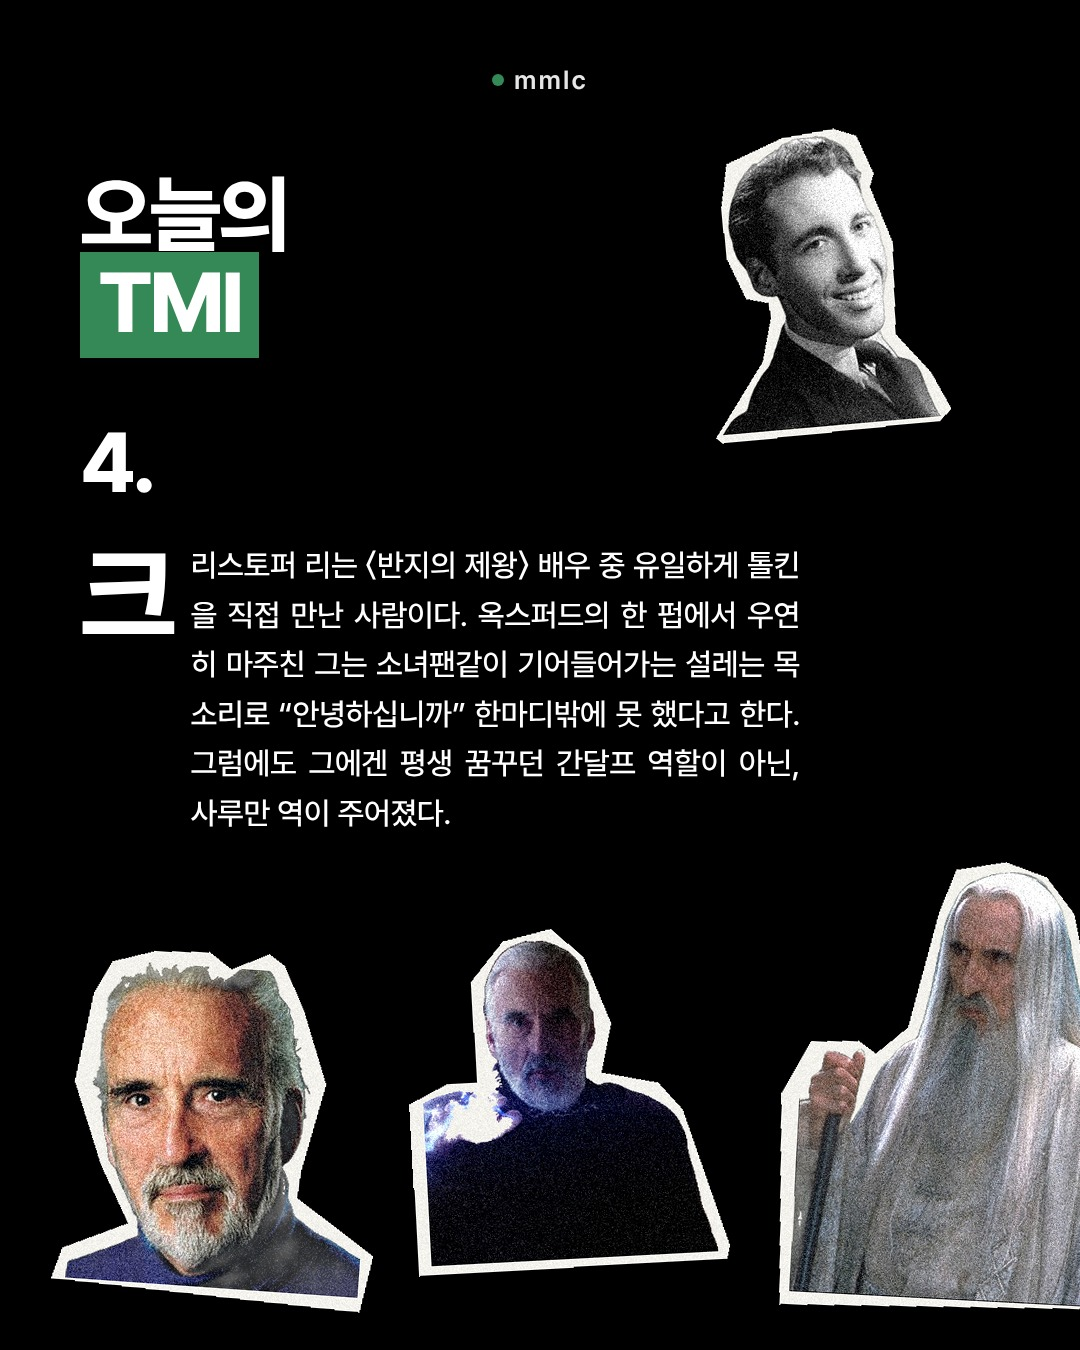
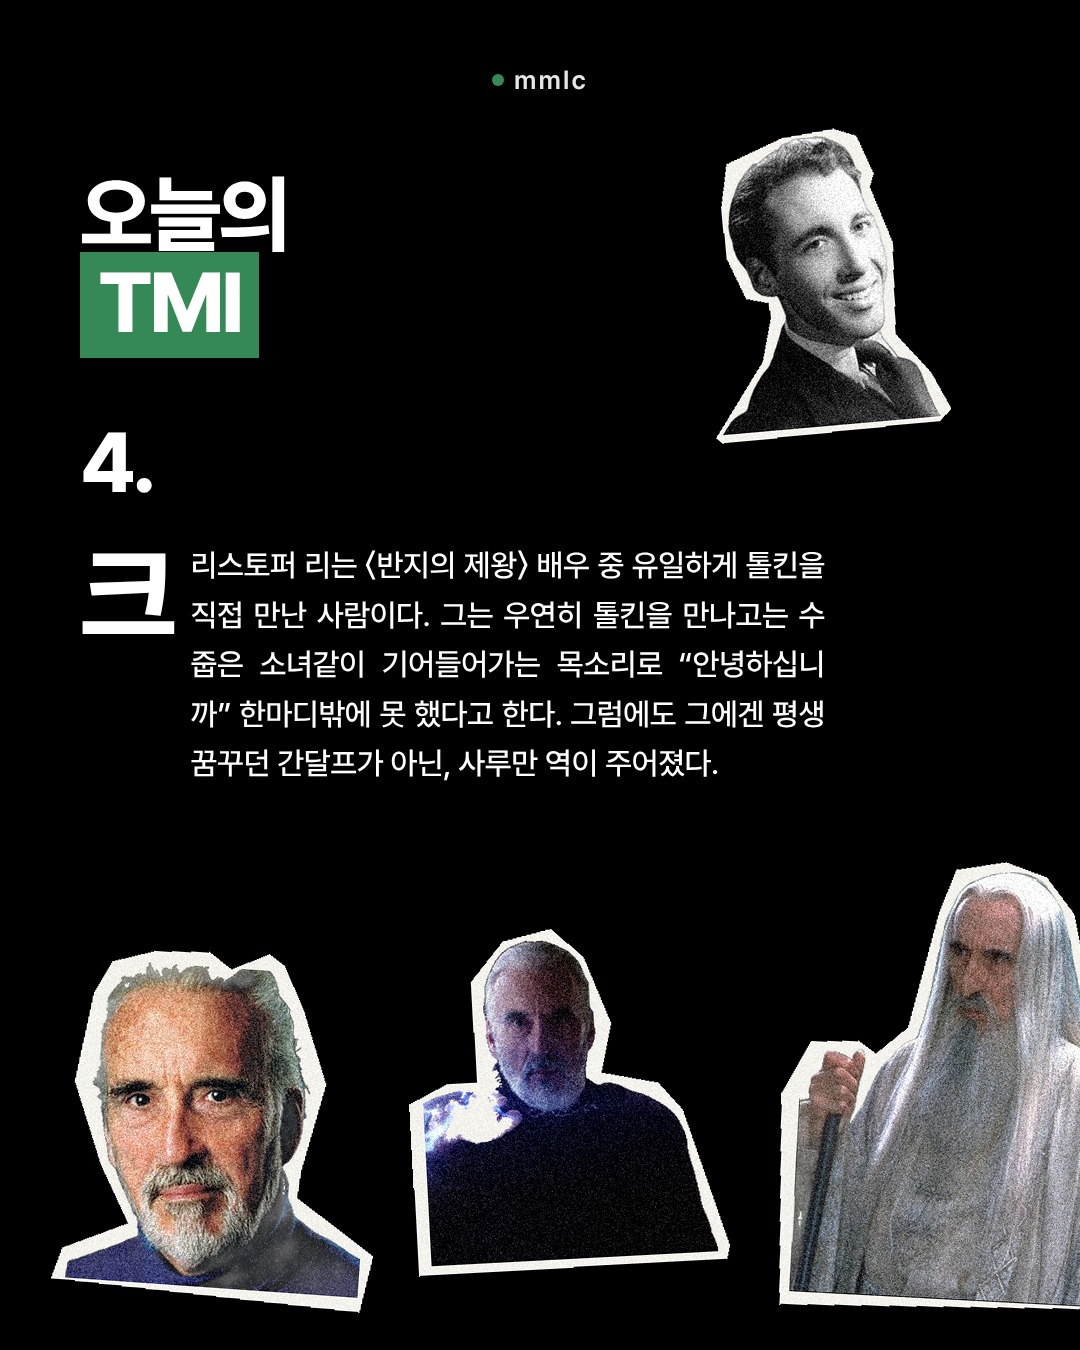
TMI 4: 문장 다듬기
Claude-Session: https://claude.ai/code/session_01VEGji5EN7vxtsBWeNT8Esa

Changed region(s): [[0.1833, 0.4044, 0.7639, 0.6222]]

diff --git a/templates/tmi-daily/render_04.py b/templates/tmi-daily/render_04.py
@@ -13,13 +13,13 @@ html=f"""<!doctype html><html><head><meta charset="utf-8"><style>{mc.FONTS}
 .n{{position:absolute;left:80px;top:420px;font-size:84px;font-weight:800;color:#fff;letter-spacing:-0.04em;line-height:1}}
 .h{{position:absolute;left:80px;top:170px;font-size:84px;font-weight:800;letter-spacing:-0.04em;line-height:1.05}}
 .h b{{background:{mc.GREEN};color:#fff;font-weight:800;padding:0 18px 6px;margin-left:4px}}
-.p{{position:absolute;left:80px;width:720px;top:540px;font-size:31px;font-weight:500;line-height:1.6;text-align:justify;text-align-last:left;word-break:break-all;letter-spacing:-0.01em}}
+.p{{position:absolute;left:80px;width:745px;top:540px;font-size:31px;font-weight:500;line-height:1.6;text-align:justify;text-align-last:left;word-break:break-all;letter-spacing:-0.01em}}
 .p::first-letter{{float:left;font-size:112px;line-height:.82;font-weight:800;margin:10px 14px 230px 0;color:#fff}}
 .st{{position:absolute;z-index:4}}
 </style></head><body><div class="card">
 <div class="top"><span class="rec"></span><span class="logo">mmlc</span></div>
 <div class="n">4.</div><div class="h">오늘의<br><b style="margin-left:0">TMI</b></div>
-<p class="p">크리스토퍼 리는 〈반지의 제왕〉 배우 중 유일하게 톨킨을 직접 만난 사람이다. 옥스퍼드의 한 펍에서 우연히 마주친 그는 소녀팬같이 기어들어가는 설레는 목소리로 “안녕하십니까” 한마디밖에 못 했다고 한다. 그럼에도 그에겐 평생 꿈꾸던 간달프 역할이 아닌, 사루만 역이 주어졌다.</p>
+<p class="p">크리스토퍼 리는 〈반지의 제왕〉 배우 중 유일하게 톨킨을 직접 만난 사람이다. 그는 우연히 톨킨을 만나고는 수줍은 소녀같이 기어들어가는 목소리로 “안녕하십니까” 한마디밖에 못 했다고 한다. 그럼에도 그에겐 평생 꿈꾸던 간달프가 아닌, 사루만 역이 주어졌다.</p>
 <img class="st" src="{b('st_young.png')}" style="left:690px;top:120px;width:{S['st_young.png'][0]}px">
 <img class="st" src="{b('st_old.png')}" style="left:50px;top:940px;width:{S['st_old.png'][0]}px">
 <img class="st" src="{b('st_dooku.png')}" style="left:400px;top:920px;width:{S['st_dooku.png'][0]}px">
